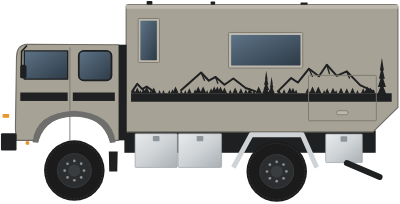
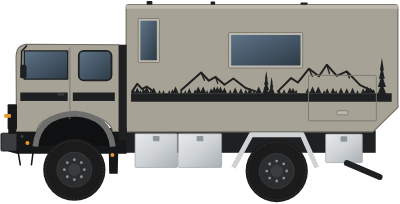
0.4.0: Nivellier-Karte ha-level-card, Seitenansicht mit Unterbau
- ha-level-card: Seiten-/Heckansicht drehen mit Nicken/Rollen, Libelle,
  farbige Werte, Höhendifferenzen (Entität oder berechnet), Hinweis
- Seitenansicht: schwarzer Unterbau, Radkasten, Leuchtenträger, Stoßstange
- PNG-Exporte aktualisiert

Claude-Session: https://claude.ai/code/session_013DCenfRdCFAbqtyfTagYZP

diff --git a/custom_components/ha_compass/www/ha-compass-card.js b/custom_components/ha_compass/www/ha-compass-card.js
@@ -3,7 +3,7 @@
  * Teil von HA-Compass (Apache-2.0). Sonnen-/Mondberechnung: SunCalc-Port
  * (BSD-2-Clause, © 2014 Vladimir Agafonkin) – siehe NOTICE.
  */
-const CARD_VERSION = "0.3.0";
+const CARD_VERSION = "0.4.0";
 
 /* ------------------------------------------------------------ Astronomie (SunCalc) */
 const RAD = Math.PI / 180, DAY_MS = 86400000, J1970 = 2440588, J2000 = 2451545, E = RAD * 23.4397;
@@ -418,4 +418,197 @@ if (!customElements.get("ha-compass-card")) {
     preview: false, documentationURL: "https://github.com/trinler007/HA-Compass",
   });
   console.info(`%c HA-COMPASS-CARD %c ${CARD_VERSION} `, "background:#f59e0b;color:#000", "background:#333;color:#fff");
+}
+
+/* ============================================================ Nivellier-Karte */
+const SIDE_SVG = `<defs> <linearGradient id="lv-sv-glass" x1="0" y1="0" x2="1" y2="1"><stop offset="0" stop-color="#5d7387"/><stop offset="1" stop-color="#2e3b47"/></linearGradient> <linearGradient id="lv-sv-alu" x1="0" y1="0" x2="1" y2="1"><stop offset="0" stop-color="#e8eaec"/><stop offset=".5" stop-color="#cfd3d6"/><stop offset="1" stop-color="#a9afb4"/></linearGradient> </defs> <g transform="scale(0.38919) translate(-142 -9)" stroke-linejoin="round"> <rect x="700" y="596" width="1130" height="100" fill="#1f2021"/> <path d="M708 40 Q708 30 718 30 L1918 30 Q1930 30 1930 42 L1930 492 L1818 602 L708 602 Z" fill="#a7a296" stroke="#6f6b62" stroke-width="5"/> <path d="M708 30 L1930 30 L1930 48 L708 48 Z" fill="#bdb8ad"/> <rect x="800" y="14" width="26" height="16" rx="4" fill="#1f2021"/><rect x="1088" y="16" width="20" height="14" rx="3" fill="#1f2021"/><rect x="1492" y="20" width="32" height="10" rx="3" fill="#1f2021"/> <rect x="762" y="92" width="96" height="198" rx="4" fill="#bdb8ad" stroke="#7a766c" stroke-width="4"/> <rect x="772" y="102" width="74" height="178" rx="3" fill="url(#lv-sv-glass)"/> <rect x="1168" y="155" width="334" height="160" rx="5" fill="#bdb8ad" stroke="#7a766c" stroke-width="4"/> <rect x="1180" y="166" width="312" height="138" rx="4" fill="url(#lv-sv-glass)"/> <path d="M730 428 H1902 V466 H730 Z" fill="#1f2021"/> <path d="M730 428 L740 406 L750 428 Z M746 428 L758 402 L770 428 Z M766 428 L772 414 L778 428 Z M776 428 L786 406 L796 428 Z M786 428 L800 398 L814 428 Z M812 428 L818 414 L824 428 Z M820 428 L832 402 L844 428 Z M852 428 L858 414 L864 428 Z M870 428 L876 414 L882 428 Z M896 428 L902 414 L908 428 Z M908 428 L916 410 L924 428 Z M916 428 L930 398 L944 428 Z M950 428 L956 414 L962 428 Z M968 428 L974 414 L980 428 Z M982 428 L992 406 L1002 428 Z M1010 428 L1018 410 L1026 428 Z M1018 428 L1032 398 L1046 428 Z M1040 428 L1054 398 L1068 428 Z M1066 428 L1072 414 L1078 428 Z M1080 428 L1090 406 L1100 428 Z M1090 428 L1104 398 L1118 428 Z M1104 428 L1118 398 L1132 428 Z M1118 428 L1132 398 L1146 428 Z M1138 428 L1150 402 L1162 428 Z M1169 428 L1176 412 L1183 428 Z M1186 428 L1198 402 L1210 428 Z M1214 428 L1224 406 L1234 428 Z M1238 428 L1246 410 L1254 428 Z M1253 428 L1264 404 L1275 428 Z M1276 428 L1282 414 L1288 428 Z M1290 428 L1304 398 L1318 428 Z M1320 428 L1330 406 L1340 428 Z M1346 428 L1356 406 L1366 428 Z M1364 428 L1370 414 L1376 428 Z M1388 428 L1396 410 L1404 428 Z M1410 428 L1418 410 L1426 428 Z M1432 428 L1444 402 L1456 428 Z M1447 428 L1458 404 L1469 428 Z M1465 428 L1472 412 L1479 428 Z M1514 428 L1524 406 L1534 428 Z M1532 428 L1546 398 L1560 428 Z M1558 428 L1572 398 L1586 428 Z M1592 428 L1598 414 L1604 428 Z M1602 428 L1612 406 L1622 428 Z M1627 428 L1638 404 L1649 428 Z M1646 428 L1652 414 L1658 428 Z M1663 428 L1674 404 L1685 428 Z M1690 428 L1700 406 L1710 428 Z M1715 428 L1726 404 L1737 428 Z M1742 428 L1748 414 L1754 428 Z M1764 428 L1774 406 L1784 428 Z M1778 428 L1792 398 L1806 428 Z M1794 428 L1806 402 L1818 428 Z M1812 428 L1820 410 L1828 428 Z M1322 438 L1338 398 L1354 438 Z M1325 414 L1338 375 L1351 414 Z M1328 390 L1338 351 L1348 390 Z M1332 367 L1338 327 L1344 367 Z M1349 438 L1362 406 L1375 438 Z M1352 420 L1362 389 L1372 420 Z M1354 403 L1362 371 L1370 403 Z M1357 386 L1362 354 L1367 386 Z M1836 438 L1858 381 L1880 438 Z M1840 400 L1858 344 L1876 400 Z M1845 363 L1858 306 L1871 363 Z M1849 326 L1858 269 L1867 326 Z" fill="#1f2021"/> <path d="M735 420 L758 386 L780 410 L800 398 L830 420 M955 415 L1045 335 L1080 372 L1110 355 L1150 390 L1190 362 L1245 405 L1290 420 M1390 420 L1450 360 L1480 380 L1530 318 L1575 352 L1610 300 L1655 350 L1700 330 L1760 392 L1820 420" fill="none" stroke="#1f2021" stroke-width="9" stroke-linecap="round"/> <path d="M1045 335 L1060 370 M1110 355 L1120 384 M1530 318 L1545 352 M1610 300 L1622 340 M1700 330 L1712 360" fill="none" stroke="#1f2021" stroke-width="6" stroke-linecap="round"/> <rect x="1528" y="348" width="305" height="204" rx="4" fill="none" stroke="#7a766c" stroke-width="4"/> <rect x="1655" y="507" width="50" height="18" rx="6" fill="#bdb8ad" stroke="#6f6b62" stroke-width="3"/> <rect x="748" y="610" width="190" height="152" rx="4" fill="url(#lv-sv-alu)" stroke="#9aa0a5" stroke-width="3"/> <rect x="942" y="610" width="195" height="152" rx="4" fill="url(#lv-sv-alu)" stroke="#9aa0a5" stroke-width="3"/> <rect x="1605" y="612" width="165" height="128" rx="4" fill="url(#lv-sv-alu)" stroke="#9aa0a5" stroke-width="3"/> <rect x="828" y="620" width="30" height="24" rx="4" fill="#8f969b"/><rect x="1025" y="620" width="30" height="24" rx="4" fill="#8f969b"/><rect x="1672" y="622" width="30" height="24" rx="4" fill="#8f969b"/> <path d="M1190 762 L1270 615 L1500 615 L1565 762" fill="none" stroke="#cfd3d6" stroke-width="22"/> <path d="M1700 742 L1848 805" stroke="#1f2021" stroke-width="26" stroke-linecap="round"/> <path d="M178 585 L710 585 L710 700 L672 700 L670 790 L632 790 L630 700 L215 700 L178 690 Z" fill="#161718"/> <path d="M305 665 Q318 528 475 520 Q632 528 648 665 Z" fill="#0f1011"/> <path d="M675 210 L675 600 L648 600 Q632 528 475 520 Q318 528 305 600 L215 600 L213 262 Q216 210 262 208 Z" fill="#a7a296" stroke="#6f6b62" stroke-width="5"/> <rect x="675" y="210" width="35" height="430" fill="#1f2021"/> <path d="M250 238 H445 V365 H250 Z" fill="url(#lv-sv-glass)" stroke="#1f2021" stroke-width="6"/> <rect x="495" y="238" width="147" height="132" rx="22" fill="url(#lv-sv-glass)" stroke="#1f2021" stroke-width="8"/> <path d="M455 222 V545" stroke="#77736a" stroke-width="4"/> <rect x="232" y="425" width="213" height="38" fill="#1f2021"/><rect x="468" y="425" width="189" height="38" fill="#1f2021"/> <rect x="400" y="428" width="30" height="10" rx="3" fill="#3b3d3f"/> <path d="M300 668 Q312 528 475 520 Q632 528 648 668" fill="none" stroke="#6e6f6d" stroke-width="26"/> <path d="M262 214 L238 240 L236 360" fill="none" stroke="#1f2021" stroke-width="7"/> <rect x="232" y="300" width="28" height="62" rx="10" fill="#1f2021"/> <rect x="175" y="478" width="42" height="112" rx="4" fill="#161718"/> <rect x="160" y="522" width="30" height="16" rx="4" fill="#e8962e"/> <rect x="145" y="608" width="72" height="80" rx="6" fill="#3a3c3e" stroke="#161718" stroke-width="4"/> <circle cx="264" cy="652" r="9" fill="#e8962e"/><circle cx="240" cy="622" r="7" fill="#3a3c3e"/> <path d="M222 690 L232 750 M290 690 L282 750" stroke="#161718" stroke-width="7" stroke-linecap="round"/> <circle cx="646" cy="706" r="9" fill="#e8962e"/> <circle cx="475" cy="772" r="140" fill="#1b1b1b"/><circle cx="475" cy="772" r="130.2" fill="none" stroke="#2a2a2a" stroke-width="7.0" stroke-dasharray="8.4 7.0"/><circle cx="475" cy="772" r="78.4" fill="#2b2d2f" stroke="#3a3d40" stroke-width="4"/><circle cx="475" cy="772" r="28.0" fill="#3a3d40"/><circle cx="519.8" cy="772.0" r="6.3" fill="#8b9095"/><circle cx="506.7" cy="803.7" r="6.3" fill="#8b9095"/><circle cx="475.0" cy="816.8" r="6.3" fill="#8b9095"/><circle cx="443.4" cy="803.7" r="6.3" fill="#8b9095"/><circle cx="430.2" cy="772.1" r="6.3" fill="#8b9095"/><circle cx="443.3" cy="740.4" r="6.3" fill="#8b9095"/><circle cx="474.9" cy="727.2" r="6.3" fill="#8b9095"/><circle cx="506.6" cy="740.2" r="6.3" fill="#8b9095"/> <circle cx="1385" cy="778" r="140" fill="#1b1b1b"/><circle cx="1385" cy="778" r="130.2" fill="none" stroke="#2a2a2a" stroke-width="7.0" stroke-dasharray="8.4 7.0"/><circle cx="1385" cy="778" r="78.4" fill="#2b2d2f" stroke="#3a3d40" stroke-width="4"/><circle cx="1385" cy="778" r="28.0" fill="#3a3d40"/><circle cx="1429.8" cy="778.0" r="6.3" fill="#8b9095"/><circle cx="1416.7" cy="809.7" r="6.3" fill="#8b9095"/><circle cx="1385.0" cy="822.8" r="6.3" fill="#8b9095"/><circle cx="1353.4" cy="809.7" r="6.3" fill="#8b9095"/><circle cx="1340.2" cy="778.1" r="6.3" fill="#8b9095"/><circle cx="1353.3" cy="746.4" r="6.3" fill="#8b9095"/><circle cx="1384.9" cy="733.2" r="6.3" fill="#8b9095"/><circle cx="1416.6" cy="746.2" r="6.3" fill="#8b9095"/> </g>`;
+const REAR_SVG = `<defs> <linearGradient id="lv-rv-alu" x1="0" y1="0" x2="0" y2="1"><stop offset="0" stop-color="#e3e6e8"/><stop offset="1" stop-color="#a3a9ae"/></linearGradient> </defs> <g transform="scale(0.40098) translate(-67 -3)" stroke-linejoin="round"> <rect x="82" y="760" width="90" height="103" rx="14" fill="#1b1b1b"/> <rect x="553" y="760" width="92" height="103" rx="14" fill="#1b1b1b"/> <rect x="150" y="595" width="445" height="140" fill="#1f2021"/> <rect x="268" y="590" width="22" height="150" fill="url(#lv-rv-alu)"/><rect x="445" y="590" width="22" height="150" fill="url(#lv-rv-alu)"/> <rect x="80" y="575" width="72" height="200" fill="url(#lv-rv-alu)" stroke="#9aa0a5" stroke-width="3"/> <rect x="595" y="575" width="72" height="200" fill="url(#lv-rv-alu)" stroke="#9aa0a5" stroke-width="3"/> <rect x="90" y="733" width="566" height="30" rx="15" fill="url(#lv-rv-alu)" stroke="#9aa0a5" stroke-width="3"/> <rect x="70" y="5" width="606" height="458" rx="6" fill="#a7a296" stroke="#6f6b62" stroke-width="5"/> <rect x="90" y="24" width="566" height="420" rx="3" fill="none" stroke="#8f8a7f" stroke-width="3"/> <path d="M70 463 H676 V545 L660 560 H86 L70 545 Z" fill="#55524b" stroke="#3d3b36" stroke-width="4"/> <circle cx="86" cy="20" r="7" fill="#e23b2e"/><circle cx="660" cy="20" r="7" fill="#e23b2e"/> <rect x="100" y="560" width="550" height="38" fill="url(#lv-rv-alu)" stroke="#9aa0a5" stroke-width="3"/> <rect x="112" y="565" width="128" height="27" rx="3" fill="#f4f4f4" stroke="#333" stroke-width="2"/> <rect x="112" y="565" width="12" height="27" fill="#2f4fa3"/> <rect x="105" y="600" width="85" height="32" rx="3" fill="#c62828"/><rect x="105" y="600" width="26" height="32" rx="3" fill="#e8962e"/> <rect x="550" y="600" width="86" height="32" rx="3" fill="#c62828"/><rect x="610" y="600" width="26" height="32" rx="3" fill="#e8962e"/> <rect x="238" y="605" width="26" height="22" rx="2" fill="#d8dadb"/><rect x="476" y="605" width="26" height="22" rx="2" fill="#d8dadb"/> </g>`;
+
+const TL = {
+  de: { pitch: "Nicken", roll: "Rollen", front: "Front", rear: "Heck", left: "Fahrerseite", right: "Beifahrerseite",
+        level: "Waagerecht", raise: "anheben", side: "Seite", lengthwise: "Längs", sideways: "Seitlich", hint: "Hinweis", unavailable: "nicht verfügbar" },
+  en: { pitch: "Pitch", roll: "Roll", front: "Front", rear: "Rear", left: "Driver side", right: "Passenger side",
+        level: "Level", raise: "raise", side: "Side", lengthwise: "Lengthwise", sideways: "Sideways", hint: "Hint", unavailable: "unavailable" },
+};
+
+class HaLevelCard extends HTMLElement {
+  static DEFAULTS = {
+    wheelbase: 3500, track_width: 1900, bubble_range: 5, tolerance: 0.5, warn: 1.5,
+    show_views: true, show_bubble: true, show_values: true, show_hint: true,
+  };
+
+  static getStubConfig() {
+    return { pitch_entity: "sensor.technik_wasserwaage_truck_pitch", roll_entity: "sensor.technik_wasserwaage_truck_roll" };
+  }
+
+  static getConfigForm() {
+    const bool = (name) => ({ name, selector: { boolean: {} } });
+    const num = (name, min, max, step, unit) => ({ name, selector: { number: { min, max, step, unit_of_measurement: unit, mode: "box" } } });
+    return {
+      schema: [
+        { name: "pitch_entity", required: true, selector: { entity: { domain: "sensor" } } },
+        { name: "roll_entity", required: true, selector: { entity: { domain: "sensor" } } },
+        { name: "title", selector: { text: {} } },
+        { type: "grid", name: "", schema: [bool("show_views"), bool("show_bubble"), bool("show_values"), bool("show_hint")] },
+        { type: "expandable", name: "", title: "Fahrzeug & Grenzwerte", flatten: true, schema: [
+          { type: "grid", name: "", schema: [
+            num("wheelbase", 1000, 8000, 10, "mm"), num("track_width", 1000, 3000, 10, "mm"),
+            num("tolerance", 0.1, 5, 0.1, "°"), num("warn", 0.2, 10, 0.1, "°"), num("bubble_range", 1, 20, 1, "°"),
+          ] },
+        ] },
+        { type: "expandable", name: "", title: "Optionale Entitäten (statt Berechnung)", flatten: true, schema: [
+          { name: "height_long_entity", selector: { entity: { domain: "sensor" } } },
+          { name: "height_side_entity", selector: { entity: { domain: "sensor" } } },
+          { name: "hint_entity", selector: { entity: {} } },
+        ] },
+      ],
+      computeLabel: (s) => ({
+        pitch_entity: "Nicken (+ = Front höher)", roll_entity: "Rollen (+ = Fahrerseite höher)", title: "Titel",
+        show_views: "Fahrzeugansichten", show_bubble: "Libelle", show_values: "Werte", show_hint: "Hinweis",
+        wheelbase: "Radstand", track_width: "Spurweite", tolerance: "Toleranz (grün)", warn: "Warnschwelle (gelb)",
+        bubble_range: "Libelle Vollausschlag", height_long_entity: "Höhendifferenz längs", height_side_entity: "Höhendifferenz seitlich",
+        hint_entity: "Nivellierhinweis",
+      }[s.name]),
+    };
+  }
+
+  setConfig(config) {
+    if (!config.pitch_entity || !config.roll_entity) throw new Error("pitch_entity und roll_entity sind erforderlich");
+    this._config = { ...HaLevelCard.DEFAULTS, ...config };
+    this._sig = null;
+    if (!this.shadowRoot) this.attachShadow({ mode: "open" });
+    this._render();
+  }
+
+  getCardSize() { return 6; }
+  getGridOptions() { return { columns: 12, min_columns: 6, rows: "auto" }; }
+
+  set hass(hass) {
+    this._hass = hass;
+    const c = this._config;
+    const sig = [c.pitch_entity, c.roll_entity, c.height_long_entity, c.height_side_entity, c.hint_entity]
+      .map((e) => (e ? hass.states[e]?.state : "")).join("|");
+    if (sig === this._sig) return;
+    this._sig = sig;
+    this._render();
+  }
+
+  _t() { const l = (this._hass?.locale?.language || "de").slice(0, 2); return TL[l] || TL.en; }
+  _num(id) { const s = id && this._hass?.states[id]; const v = s ? parseFloat(s.state) : NaN; return isNaN(v) ? null : v; }
+  _fmt(v, d = 1) {
+    return v == null ? "–" : new Intl.NumberFormat(this._hass?.locale?.language || "de", { minimumFractionDigits: d, maximumFractionDigits: d }).format(v);
+  }
+  _cls(v) {
+    if (v == null) return "na";
+    const a = Math.abs(v);
+    return a <= this._config.tolerance ? "ok" : a <= this._config.warn ? "warn" : "bad";
+  }
+
+  _render() {
+    if (!this.shadowRoot || !this._config) return;
+    if (!this._hass) { this.shadowRoot.innerHTML = ""; return; }
+    const c = this._config, t = this._t();
+    const pitch = this._num(c.pitch_entity), roll = this._num(c.roll_entity);
+    const p = pitch ?? 0, r = roll ?? 0;
+
+    /* Höhendifferenzen: aus Entitäten oder aus Radstand/Spurweite (cm) */
+    const longCm = c.height_long_entity ? this._num(c.height_long_entity) : (pitch == null ? null : Math.tan(p * RAD) * c.wheelbase / 10);
+    const sideCm = c.height_side_entity ? this._num(c.height_side_entity) : (roll == null ? null : Math.tan(r * RAD) * c.track_width / 10);
+    let hint = c.hint_entity ? this._hass.states[c.hint_entity]?.state : null;
+    if (!hint && pitch != null && roll != null) {
+      const parts = [];
+      if (Math.abs(p) > c.tolerance) parts.push(`${p > 0 ? t.rear : t.front} ${this._fmt(Math.abs(longCm))} cm ${t.raise}`);
+      if (Math.abs(r) > c.tolerance) parts.push(`${r > 0 ? t.right : t.left} ${this._fmt(Math.abs(sideCm))} cm ${t.raise}`);
+      hint = parts.length ? parts.join(" · ") : t.level;
+    }
+
+    /* Ansichten */
+    const view = (svg, vb, ground, angle, label, value, cls, w) => {
+      const [x0, , vw] = vb.split(" ").map(Number);
+      return `
+      <div class="view">
+        <svg viewBox="${vb}" class="vsvg" style="max-width:${w}px">
+          <line x1="${x0}" y1="${ground}" x2="${x0 + vw}" y2="${ground}" class="horizon"/>
+          <g class="tilt" style="transform:rotate(${angle}deg)">${svg}</g>
+        </svg>
+        <div class="vlabel"><span>${label}</span><b class="${cls}">${this._fmt(value)}°</b></div>
+      </div>`;
+    };
+    const views = !c.show_views ? "" : `
+      <div class="views">
+        ${view(SIDE_SVG, "-15 -25 729 408", 357, p, t.pitch, pitch, this._cls(pitch), 420)}
+        ${view(REAR_SVG, "-15 -25 275 392", 345, -r, t.roll, roll, this._cls(roll), 170)}
+      </div>`;
+
+    /* Libelle: Blase wandert zur höheren Seite (oben = Front, links = Fahrerseite) */
+    const R = 62, k = R / c.bubble_range;
+    const clamp = (v) => Math.max(-c.bubble_range, Math.min(c.bubble_range, v));
+    const bx = 80 - clamp(r) * k, by = 80 - clamp(p) * k;
+    const worst = Math.max(Math.abs(p), Math.abs(r));
+    const bubble = !c.show_bubble ? "" : `
+      <svg viewBox="0 0 160 160" class="bubble">
+        <circle cx="80" cy="80" r="${R + 6}" class="vial"/>
+        <circle cx="80" cy="80" r="${R * c.warn / c.bubble_range}" class="ringw"/>
+        <circle cx="80" cy="80" r="${R * c.tolerance / c.bubble_range}" class="ringok"/>
+        <line x1="80" y1="${80 - R}" x2="80" y2="${80 + R}" class="cross"/><line x1="${80 - R}" y1="80" x2="${80 + R}" y2="80" class="cross"/>
+        <text x="80" y="${80 - R - 8}" class="bl">▲ ${t.front}</text>
+        ${pitch == null || roll == null ? "" : `<circle cx="${bx.toFixed(1)}" cy="${by.toFixed(1)}" r="13" class="bub ${this._cls(worst)}"/>`}
+      </svg>`;
+
+    const values = !c.show_values ? "" : `
+      <div class="vals">
+        <div><span>${t.lengthwise}</span><b class="${this._cls(pitch)}">${this._fmt(pitch)}°</b><em>${longCm == null ? "" : this._fmt(longCm) + " cm"}</em></div>
+        <div><span>${t.sideways}</span><b class="${this._cls(roll)}">${this._fmt(roll)}°</b><em>${sideCm == null ? "" : this._fmt(sideCm) + " cm"}</em></div>
+        ${c.show_hint && hint ? `<div class="hint ${worst <= c.tolerance ? "ok" : ""}">${hint}</div>` : ""}
+      </div>`;
+
+    this.shadowRoot.innerHTML = `
+<style>
+  :host { --ok: var(--success-color, #43a047); --warn: var(--warning-color, #f59e0b); --bad: var(--error-color, #e53935); }
+  ha-card { padding: 16px; container-type: inline-size; }
+  .title { font-size: 1.1em; font-weight: 500; margin-bottom: 8px; color: var(--primary-text-color); }
+  .views { display: flex; gap: 12px; align-items: flex-end; justify-content: center; }
+  .view { display: flex; flex-direction: column; align-items: center; min-width: 0; }
+  .view:first-child { flex: 2.5; } .view:last-child { flex: 1; }
+  .vsvg { width: 100%; display: block; overflow: hidden; }
+  .tilt { transform-box: fill-box; transform-origin: 50% 100%; transition: transform .6s cubic-bezier(.3,.7,.3,1); }
+  .horizon { stroke: var(--secondary-text-color); stroke-width: 2; stroke-dasharray: 6 5; opacity: .6; }
+  .vlabel { display: flex; gap: 8px; align-items: baseline; color: var(--secondary-text-color); font-size: 13px; margin-top: 4px; }
+  .vlabel b { font-size: 20px; }
+  .lower { display: flex; gap: 16px; align-items: center; margin-top: 12px; }
+  .bubble { width: 150px; flex: none; }
+  .vial { fill: var(--secondary-background-color, rgba(127,127,127,.1)); stroke: var(--divider-color, #ccc); stroke-width: 2; }
+  .ringok { fill: none; stroke: var(--ok); stroke-width: 1.5; opacity: .8; }
+  .ringw { fill: none; stroke: var(--warn); stroke-width: 1.5; stroke-dasharray: 3 3; opacity: .8; }
+  .cross { stroke: var(--divider-color, #ccc); stroke-width: 1; }
+  .bl { font-size: 9px; letter-spacing: .05em; fill: var(--secondary-text-color); text-anchor: middle; }
+  .bub { stroke: rgba(0,0,0,.25); stroke-width: 1.5; transition: cx .6s, cy .6s; }
+  .bub.ok { fill: var(--ok); } .bub.warn { fill: var(--warn); } .bub.bad { fill: var(--bad); }
+  .vals { flex: 1; display: grid; gap: 8px; color: var(--primary-text-color); }
+  .vals > div:not(.hint) { display: grid; grid-template-columns: 1fr auto auto; gap: 10px; align-items: baseline; }
+  .vals span { color: var(--secondary-text-color); font-size: 13px; }
+  .vals b { font-size: 22px; font-weight: 600; } .vals em { font-style: normal; color: var(--secondary-text-color); min-width: 64px; text-align: right; }
+  b.ok { color: var(--ok); } b.warn { color: var(--warn); } b.bad { color: var(--bad); }
+  .hint { padding: 8px 12px; border-radius: 10px; background: var(--secondary-background-color, rgba(127,127,127,.1)); font-size: 14px; }
+  .hint.ok { color: var(--ok); font-weight: 500; }
+  @container (max-width: 420px) { .lower { flex-direction: column; } .vals { width: 100%; } }
+  .warnmsg { color: var(--error-color, #db4437); }
+</style>
+<ha-card>
+  ${c.title ? `<div class="title">${c.title}</div>` : ""}
+  ${pitch == null || roll == null ? `<div class="warnmsg">${pitch == null ? c.pitch_entity : c.roll_entity}: ${t.unavailable}</div>` : ""}
+  ${views}
+  ${bubble || values ? `<div class="lower">${bubble}${values}</div>` : ""}
+</ha-card>`;
+  }
+}
+
+if (!customElements.get("ha-level-card")) {
+  customElements.define("ha-level-card", HaLevelCard);
+  window.customCards = window.customCards || [];
+  window.customCards.push({
+    type: "ha-level-card", name: "HA Compass – Nivellierung",
+    description: "Fahrzeugneigung mit Seiten-/Heckansicht, Libelle und Höhendifferenzen",
+    preview: false, documentationURL: "https://github.com/trinler007/HA-Compass",
+  });
 }

diff --git a/dashboard/README.md b/dashboard/README.md
@@ -92,3 +92,30 @@ show_horizon: false
 
 Tippen auf den Kompass oder den Button schaltet die Ansicht um (bei `view: auto` für alle Anzeigen inkl. openHASP).
 Die Karte ist auch im visuellen Editor konfigurierbar.
+
+## Nivellier-Karte `ha-level-card`
+
+![Nivellierung](nivellierung-vorschau.png)
+
+Ersetzt van-tilt-card, realistic-bubble-level-card und die Werteliste in einer Karte: Seitenansicht (Nicken) und Heckansicht (Rollen) drehen mit,
+Libelle mit Toleranz- und Warnring, Werte farbig (grün ≤ Toleranz, gelb ≤ Warnschwelle, rot darüber), Höhendifferenzen in cm und Hinweis.
+
+```yaml
+type: custom:ha-level-card
+pitch_entity: sensor.technik_wasserwaage_truck_pitch   # + = Front höher
+roll_entity: sensor.technik_wasserwaage_truck_roll     # + = Fahrerseite höher
+title: Ausrichtung
+# optional – sonst aus Radstand/Spurweite berechnet:
+height_long_entity: sensor.technik_wasserwaage_hohendifferenz_langs
+height_side_entity: sensor.technik_wasserwaage_hohendifferenz_seitlich
+hint_entity: sensor.technik_wasserwaage_nivellier_hinweis
+```
+
+| Option | Standard | Wirkung |
+| --- | --- | --- |
+| `show_views`, `show_bubble`, `show_values`, `show_hint` | `true` | Ansichten, Libelle, Werte, Hinweis |
+| `wheelbase` / `track_width` | `3500` / `1900` mm | Basis für die berechneten Höhendifferenzen |
+| `tolerance` / `warn` | `0.5` / `1.5` ° | Farbgrenzen |
+| `bubble_range` | `5` ° | Vollausschlag der Libelle |
+
+Sobald der SCL3300 verbaut ist, liefert der Kompass-ESP Nicken und Rollen selbst – dann nur die Entitäten umstellen.
